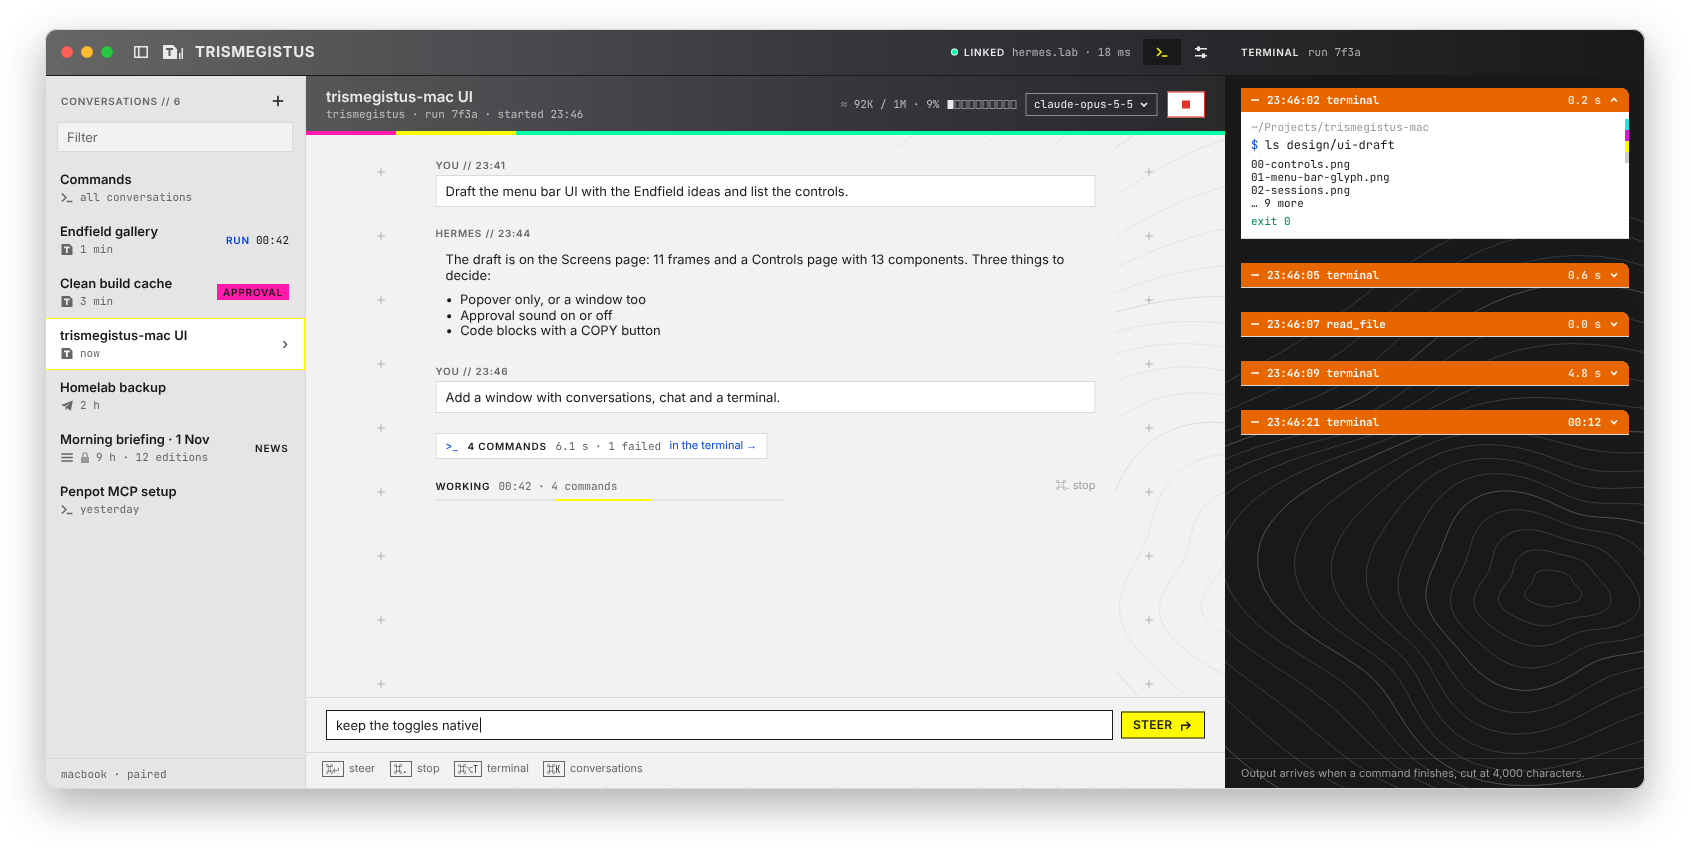
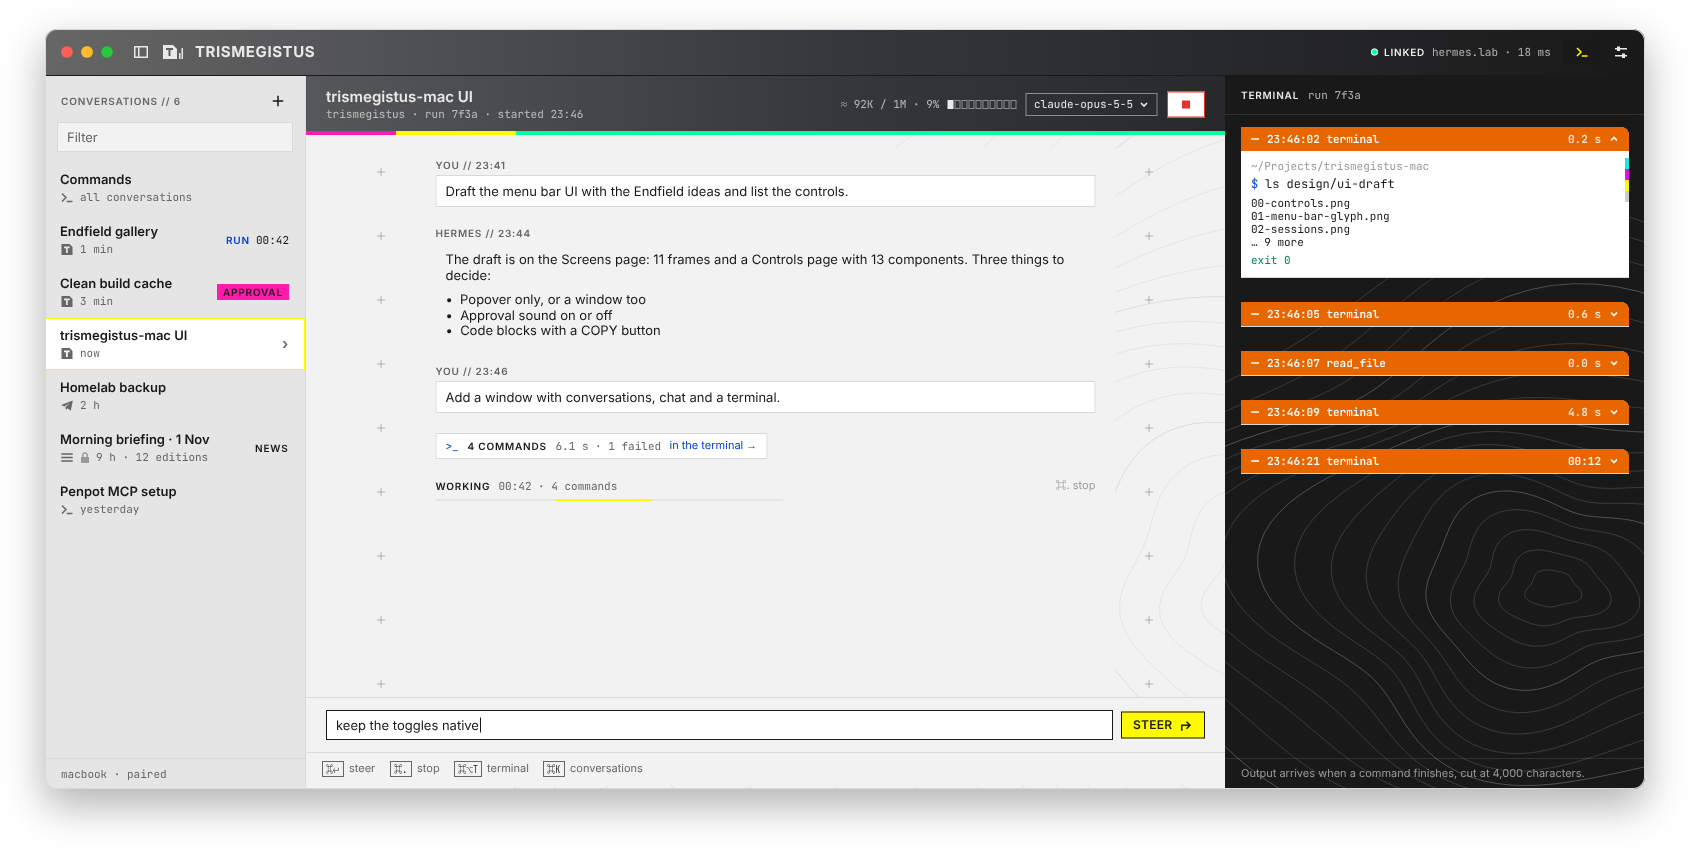
Design: Tokens page and token set in Penpot; 07c toolbar at the right edge
Penpot: a Tokens page built from design/tokens.json (palette, roles, type, spacing, sizes, icons,
radius, stroke, opacity, shadow, motion) and the token set "Trismegistus" (110 tokens, roles as
references to the palette); the existing mac/<role> text styles already match the type roles. 07c:
toolbar items at the window's right edge, terminal title row back in the pane. PNGs in design/ui-draft.

Refs #33

Changed region(s): [[0.7077, 0.0918, 0.9846, 0.5812]]

diff --git a/design/ui-draft/README.md b/design/ui-draft/README.md
@@ -6,7 +6,8 @@ PNG exports of the Penpot draft (file "New File 1" in Penpot's Drafts project; i
 - `01`-`06`: the screens from #5: menu bar glyph, popover session list (+ empty, reconnecting), chat (+ run active with the steer offer), approval (in chat, native notification), pairing (+ expired code), settings
 - `07-window.png`: the main window: conversations | chat | terminal (decided 2026-10-31, #4.1)
 - `07b-window-live.png`: the same window as the app draws it on 2026-10-31 (Penpot file "Trismegistus-mac", frame "07b window, live", 1600 wide): the steel top bar (`#666666` → `#35373C` → `#191919`, light text, the context meter and model menu on it, the terminal's title above the pane), the Endfield paper (0.5 pt crosses every 96×64 pt, contour lines) beside the 760 pt message column, and the ink terminal pane with `sunken` contours and orange item cards (folded by default, accent column, rounded top-right corner) (#29, #30, #31)
-- `07c-window-live.png`: the window as built for #32 (frame "07c window, live"): our own flat `sunken` sidebar with the Commands row on top and News among the conversations, the selected row white with a yellow border, the steel bar across the whole window (light sidebar and settings icons), the title rule under the conversation header with its subtitle, a 700 pt message column, plain Hermes messages, key hints under the input, 24 pt between terminal cards
+- `07c-window-live.png`: the window as built for #32 (frame "07c window, live"): our own flat `sunken` sidebar with the Commands row on top and News among the conversations, the selected row white with a yellow border, the steel bar across the whole window with its trailing items at the right edge (light sidebar and settings icons), the terminal's title row inside the pane, the title rule under the conversation header with its subtitle, a 700 pt message column, plain Hermes messages, key hints under the input, 24 pt between terminal cards
+- `tokens.png`: the Tokens page (#33): palette and roles, the 10 text styles on Inter and JetBrains Mono, the strict spacing scale, sizes, icons, radius, stroke, opacity, shadow, motion; the same values as `design/tokens.json`, also as the Penpot token set "Trismegistus" (110 tokens)
 - `07d-window-commands-log.png`: the Commands log (frame "07d window, commands log"): every tool call, no Commands / All tools filter; Failed, search and the conversation picker; each call as a conversation link plus an item card, 20 pt apart; terminal pane closed
 
 These are a review artifact, not assets: the app draws everything in SwiftUI.
